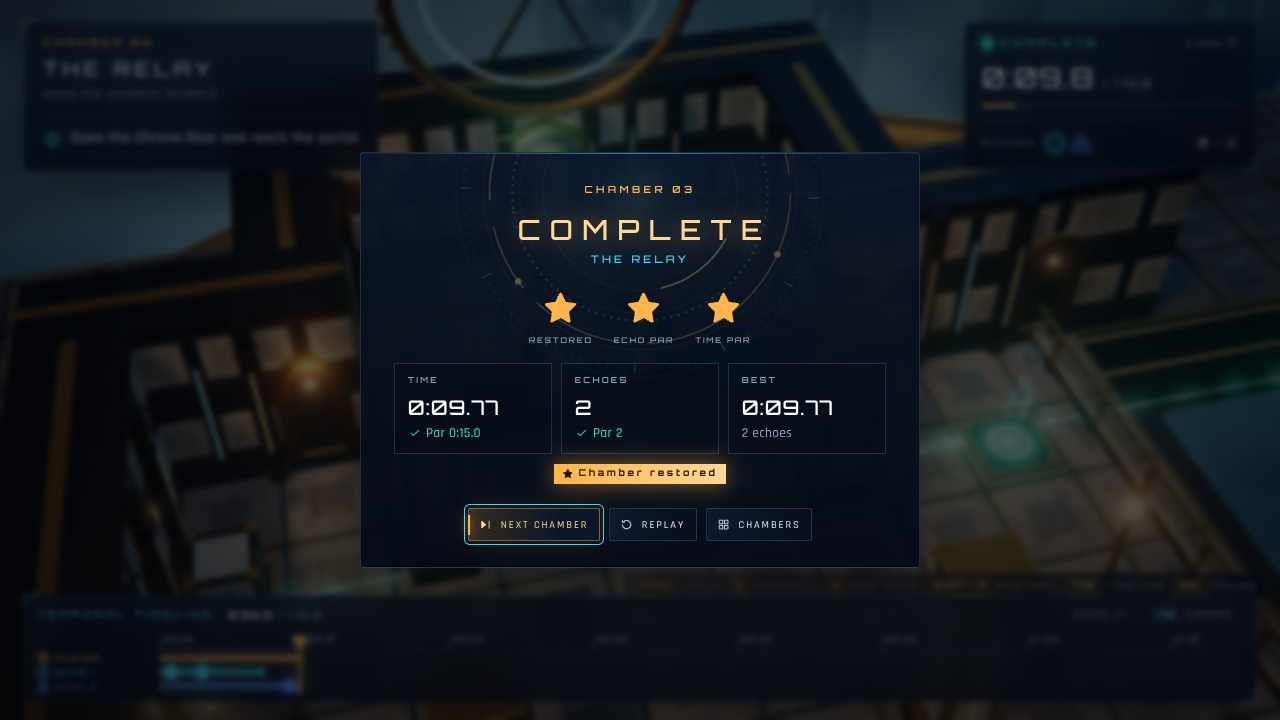
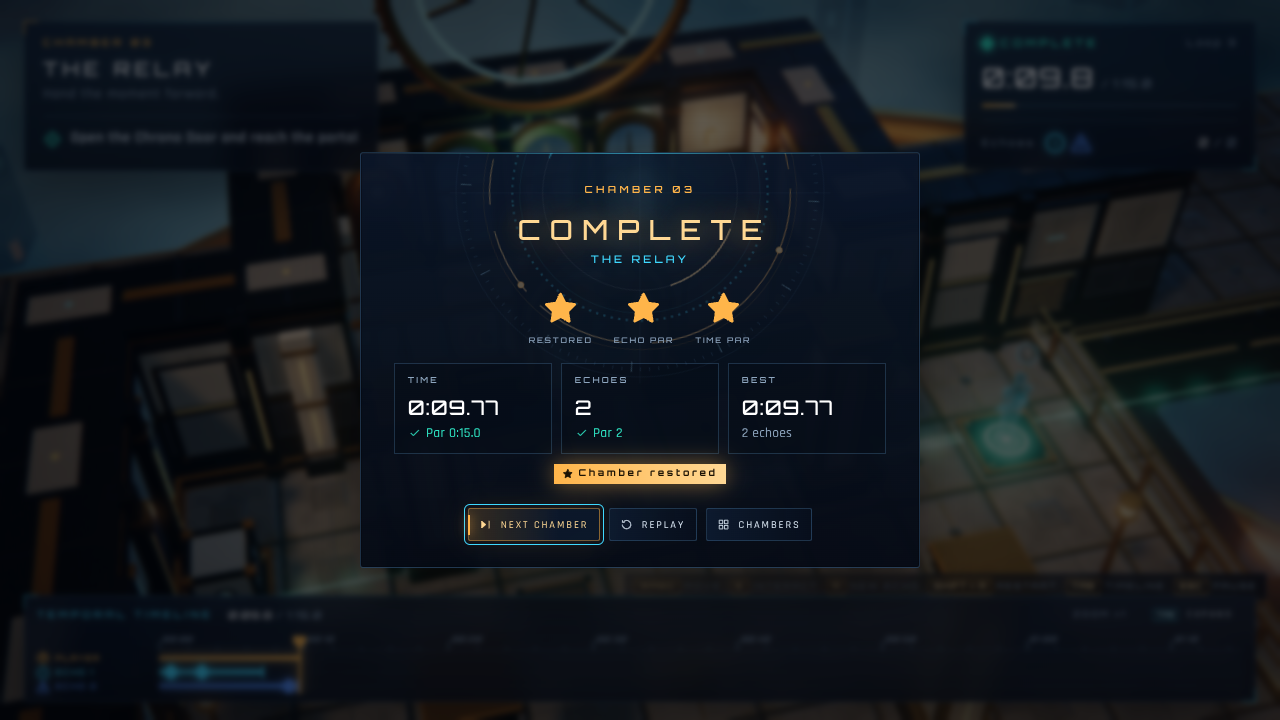
Round 2: fix QA-1/2/3, richer character, environment decor, Q ghost paths, settings wiring
- Physics: clipped deck surfaces, same-tick rider carry, gates/lifts never
  close or move into actors; repros are now normal tests (451 passing)
- Character rebuilt from the concept turnaround (18 draw calls, was 45)
- All authored decor rendered, 9 wall-module variants, monumental backdrop
- Q preview ghost paths, walk-on echo badges, camera sensitivity and
  reduced-motion wired, ?quality lock shown in settings
- Remove unreferenced iteration screenshots (kept in git history)

Claude-Session: https://claude.ai/code/session_01PdtBQq3nY8sMaNJyGq2Psc

diff --git a/src/graphics/effects/ghostPaths.ts b/src/graphics/effects/ghostPaths.ts
@@ -11,7 +11,8 @@ import type { GhostPath } from './forecast';
  * the future (static with reduced motion). Read-only: built from `extractGhostPaths` output.
  */
 
-const RIBBON_WIDTH = 0.22;
+// Wide enough to read from the overview camera the Q preview switches to.
+const RIBBON_WIDTH = 0.36;
 const FLOOR_LIFT = 0.07;
 
 const RibbonShader = {

diff --git a/docs/agent-progress/release-notes.md b/docs/agent-progress/release-notes.md
@@ -1,6 +1,6 @@
-# RECURSION — Release Notes (v0.1, director's release-candidate review)
+# RECURSION — Release Notes (v0.2, round-2 gap-fix review)
 
-Date: 2026-10-10 · Build: `npm run build` → static `dist/` (relative base path) · Reviewer: Game Director
+Date: 2026-10-11 (v0.1: 2026-10-10) · Build: `npm run build` → static `dist/` (relative base path) · Reviewer: Game Director
 
 This is an honest status report against the master plan's **Definition of Done**. "Verified" means checked by a
 test that was run for this release; "unverified" means nobody has been able to measure it yet.
@@ -10,9 +10,11 @@ test that was run for this release; "unverified" means nobody has been able to m
 The full game loop works end to end in the browser: boot → main menu (live attract replay) → level intro →
 record / rewind / cooperate with echoes → timeline inspect and temporal preview → level complete → next chamber,
 with pause, settings, level select, save/continue and procedural audio throughout. All 10 campaign chambers load,
-render and complete with their verified solutions both headlessly and in the real app. The biggest open risks are
-**real-GPU performance and feel (never measured)**, three known physics edge cases, and visual fidelity that is
-cohesive and on-palette but still below the concept sheet's level of detail.
+render and complete with their verified solutions both headlessly and in the real app. Round 2 closed the three
+known physics bugs (QA-1/2/3), added Q-preview ghost paths and walk-on badges, wired camera sensitivity and reduced
+motion into the renderer, rebuilt the protagonist and echo hologram, and rendered the full decor vocabulary with
+varied wall modules. The biggest open risk is still **real-GPU performance and feel (never measured)**; visual
+fidelity is closer to the concept sheet but still procedural (simple face, mitten hands, rigid joints).
 
 ## Definition of Done — status
 
@@ -20,20 +22,54 @@ cohesive and on-palette but still below the concept sheet's level of detail.
 |---|---|---|
 | 10 playable levels with verified solutions | **Done** | `src/levels` tests: every level validates, solves within its echo limit with 3 stars, fails with the final run alone and with any single loop solo. E2E sweep completes all 10 in the browser. Minimum echo counts are argued, not exhaustively proven. |
 | Deterministic echoes | **Done** | Integer simulation, seeded RNG, per-tick hashes; golden replays for all 10 levels + test chamber re-simulate bit-for-bit; seeded fuzzing with invariants after every tick. |
-| All 12 puzzle components | **Done, 3 known bugs** | Plates, doors, timed switches (with cooldown), crates, cells, sockets, elevators, laser emitters/receivers, temporal gates, moving platforms, exit portals. Open: QA-1 (rider can float over a pit next to a moving platform; reproducible in L05), QA-2 (temporal gate can close on an actor), QA-3 (brief clip into a departing lift). Each has an expected-failure repro test. |
+| All 12 puzzle components | **Done** | Plates, doors, timed switches (with cooldown), crates, cells, sockets, elevators, laser emitters/receivers, temporal gates, moving platforms, exit portals. Round 2 fixed QA-1 (deck walk surface is its real 1x1 extent; riders move with it in the same tick), QA-2 (an occupied temporal gate stays open until clear) and QA-3 (a lift never moves into a body; it waits in place). The three repros are now normal passing tests plus 14 edge-variant regressions, and the fuzzer no longer excuses them (20 000-tick, 4-seed run clean). |
 | Nested loops (L08) | **Done** | `recursion: { delayTicks, copies }`; copies are ordinary echoes with their own divergence checks. Timeline now labels copies "Echo 1 ↻2" with an offset, dashed bar. |
 | Timeline inspect / modify | **Done** | Track per echo, ruler, playhead, interaction markers, divergence highlights, scrubbing (3D view shows the scrubbed moment), pause, delete / hide / select loops, zoom, high-contrast palette option. |
-| In-world indicators (which echo activates what, when) | **Partial → mostly done** | New this release: numbered badges with countdown rings above every object an echo will use in the next 4 s (switches, cells, sockets, crates, lifts…), flaring when the action lands. Not covered: walk-on objects (pressure plates) and ghost paths during Q preview. |
-| Cohesive premium visuals | **Partial** | Matches the concept's palette and language (gold player / cyan echoes, brass + gunmetal kit, glowing conduits, clockwork rings, warm/cool lighting, controlled bloom, grade). Still built from procedural primitives: the character is simple next to the concept turnaround, walls are repetitive, decor vocabulary is limited (several authored decor types are not rendered yet). |
-| Polished animation / VFX | **Mostly done** | Procedural run/idle/carry/interact animation, echo manifest, rewind (screen-space + snapshot playback), divergence glitch, door/portal/laser effects, completion flash. Feel at 60 fps is unverified (see performance). |
+| In-world indicators (which echo activates what, when) | **Done** | Numbered countdown badges above every object an echo will use in the next 4 s; walk-on badges (segmented ring) over pressure plates and ride-lifts; dashed ghost paths with second markers while Q is held. Walk-on badges and ghost paths come from a deterministic echo forecast run in a Web Worker; like the Q preview they assume the player stands still. |
+| Cohesive premium visuals | **Mostly done** | Concept palette and language throughout. Round 2: new protagonist (white/ivory armour panels with gold edge glow, pauldrons, backpack time device, hair buns; 18 draw calls per character, ~8.6k triangles) and a panel-preserving cyan echo hologram; 9 wall modules per face, all authored decor types render (archway, 9 machinery variants, hologram, banner, abyss light), deeper backdrop. Still procedural: simple face, mitten hands, rigid joints, no textures on the character. |
+| Polished animation / VFX | **Mostly done** | Procedural run/idle/carry/interact animation (round 2: corrected gait phase, breathing and weight-shift idle, reach/lift/place gestures, landing squash, head look toward the faced cell), echo manifest, rewind (screen-space + snapshot playback), divergence glitch, door/portal/laser effects, completion flash. Feel at 60 fps is unverified (see performance). |
 | Audio | **Done** | Fully procedural SFX for every event class, ambience, adaptive music (menu / explore / solving / completion). No distinct sound yet for nested-loop copies. |
 | Save / load | **Done** | Progress, best runs, settings, key bindings and in-progress echoes (saved on commit/delete, restored by Continue); corrupt/oversized saves load safely. |
-| Browser tests pass | **Done** (see Tests below) | Smoke, flows, all-levels sweep, visual regression, perf probe. |
-| Performance targets (60 fps desktop / 30 fps low-end) | **Unverified** | Only measured under software rendering (SwiftShader, ~0.5 fps), which says nothing about real GPUs. Low preset cuts draw calls ~27%. The simulation itself costs ≤0.13 ms/tick. `npm run test:e2e:perf` must be run on real hardware. |
+| Browser tests pass | **Done** (see Tests below) | Smoke, flows, all-levels sweep, visual regression, perf probe. One flow test and two 3D baselines were updated for intended round-2 changes. |
+| Performance targets (60 fps desktop / 30 fps low-end) | **Unverified** | Only measured under software rendering (SwiftShader, ~0.5 fps), which says nothing about real GPUs. L10 perf probe: 376 draw calls / 0.77 M triangles (high), 253 / 0.60 M (low). Triangles are up ~30% from round 2 art, draw calls about flat. The simulation itself costs ≤0.13 ms/tick. `npm run test:e2e:perf` must be run on real hardware. |
 | Deployable static build | **Done** | `vite build` with `base: './'`; `dist/` works from any static host or sub-folder; three.js in its own cacheable chunk. |
 | 60–120 min of play | **Unverified** | 10 chambers exist; par times total ~3 min of optimal play, so real play time depends on puzzle difficulty, which needs human playtests. |
 
-## What changed in the director's polish pass
+## What changed in round 2 (gap-fix team)
+
+Physics / gameplay (simulation changed deliberately; golden replays for L04, L05, L10 and one fuzz fingerprint
+re-blessed — L04 completes one tick earlier, L05/L10 changed only mid-ride checkpoints)
+- QA-1, QA-2, QA-3 fixed at the root (see the components row). New additive `SurfaceCell.clip` contract field and
+  tick step 4b (riders carried in the same tick as their deck/lift); documented in `docs/architecture/contracts.md`.
+- A lift can now pause mid-shaft (`state.held`) while someone straddles its edge.
+
+Character
+- New stylized protagonist following the concept turnaround (`src/graphics/animation/characterModel.ts`), shared
+  geometry for player and echoes, 45 → 18 draw calls per character. Echo hologram keeps the panel pattern, shows
+  only its nearest surface and stays cyan on bright floors.
+
+Environment
+- All authored decor types render (`src/graphics/environment/decor.ts`); 9 wall modules chosen per face, trims and
+  caps; quadrant-plate floor tiles, framed grates, brass inlays; three tower bands, 70 spires, 9 clockwork rings,
+  light shafts. L10 static kit 71 → 63 draw calls, backdrop 38 → 17.
+
+UX / indicators
+- Echo forecast (Web Worker) feeding Q-preview ghost paths and walk-on badges.
+- `GameRenderer.setComfort()`: camera sensitivity scales wheel zoom and follow speed; reduced motion disables the new
+  small camera shake (rewind, divergence, completion), shortens the intro fly-in (3.4 s → 1.1 s), damps rewind /
+  glitch distortion and halves particle bursts.
+- `?quality=` overrides are shown in Settings and lock the quality selector; an unknown value falls back to the
+  saved preset (it used to force High).
+- The attract replay pauses under menu sub-screens. A crate carried by a hidden echo is hidden with it.
+
+Integration (director)
+- `tests/e2e/flows.spec.ts` settings test boots without `?quality=` (the override now locks the selector) and gains
+  a check of that lock. `tests/e2e/smoke.spec.ts` writes its review screenshots to the git-ignored `test-results/`
+  instead of `docs/`. 3D visual baselines re-blessed after side-by-side review.
+- Q-preview ghost-path ribbon widened (0.22 → 0.36 world units): the preview switches to the overview camera, where
+  the thinner trail was hard to read.
+
+## What changed in the v0.1 director's polish pass
 
 Visual / camera
 - **Closer follow camera** (distance 15–25 instead of 16–36): the characters now read as silhouettes at the
@@ -62,36 +98,53 @@ Gameplay readability / UI
 
 ## Known issues
 
-1. QA-1 / QA-2 / QA-3 physics edge cases (above).
-2. Real-GPU performance and input feel unmeasured; the intro fly-in timing and camera damping were only judged
-   from software-rendered frames.
-3. `cameraSensitivity` and `reducedMotion` settings are saved but the renderer has no camera-shake/sensitivity API
-   yet (reduced motion does shorten rewind playback and UI motion).
-4. Hiding an echo filters it from the rendered state; a crate it carries falls back to its simulated position.
-5. The attract replay keeps simulating under menu sub-screens (small CPU cost).
-6. Several authored decor types (archway, machinery variants, hologram, banner, abyssLight) are ignored by the
-   renderer.
-7. `?quality=` URL overrides are not reflected in the Settings screen (it shows the saved preset).
-8. The e2e suite takes ~20+ minutes under software WebGL.
+1. Real-GPU performance and input feel unmeasured; intro fly-in timing, camera damping and the new camera shake
+   were only judged from software-rendered frames. The first forecast (ghost paths / walk-on badges) appears after a
+   few frames under SwiftShader; on a real GPU it should take ~100 ms (unmeasured).
+2. Walk-on badges and ghost paths are predictions that assume the player stands still; they update as the player acts.
+3. The head looks toward the faced cell, not the nearest interactable (`ActorVisual.setLookTarget` exists but the
+   renderer does not call it yet).
+4. A held lift (`state.held`) and a temporal gate held open by an occupant have no dedicated visual or audio cue
+   (no `gateBlocked` event yet).
+5. Character: simple face, mitten-like hands, rigid joints; ~8.6k triangles each (cost grows with echoes and
+   nested-loop copies). Echoes render opaque with depth, so transparent effects directly behind an echo are hidden.
+6. Some void-cell machinery (e.g. L01 pylons) is seen edge-on from the default camera; adjustable per decor `facing`.
+7. The colour-blind-safe echo palette applies to the UI, not to 3D echo colours, badges or ghost paths.
+8. No distinct sound for nested-loop copies.
+9. The e2e suite takes ~26 minutes under software WebGL.
+10. `docs/art-direction/screenshots/` still holds ~50 MB of superseded iteration screenshots (`v*-*`, `ui-*`,
+    `levels-*`, `integration-*`): deleting them was blocked by this session's permissions and is left to a human.
 
 ## Recommended next milestones
 
 1. **Real-hardware pass (highest priority):** run `npm run test:e2e:perf` and play on a mid-range and a low-end
-   GPU; tune the quality presets to 60/30 fps; tune camera damping, intro length and movement feel.
-2. **Fix QA-1/2/3** in gameplay/physics and flip their expected-failure repros to normal tests.
-3. **Human playtests** of L05–L09 (the conceptual leaps): tune hint timing, par times and difficulty; measure
-   real play time against the 60–120 min target.
-4. **Art fidelity pass:** richer character model and materials, wall-module variation, render the remaining decor
-   vocabulary, ghost paths for the Q preview, plate indicators for walk-on objects.
-5. **Input:** gamepad support behind the existing input resolver; key-remap e2e coverage.
-6. **Bundle:** consider lazy-loading the harness/solution data used only by the attract replay.
+   GPU; tune the quality presets to 60/30 fps (watch triangle counts with many echoes); tune camera damping,
+   shake, intro length, forecast latency and movement feel.
+2. **Human playtests** of L05–L09: tune hint timing, par times and difficulty; measure real play time against the
+   60–120 min target; check that walk-on badges and ghost paths read clearly.
+3. **Character fidelity:** skinned mesh or better joints, hands, face texture; wire `setLookTarget` to the nearest
+   interactable.
+4. **Feedback for blocking states:** held-lift visual, `gateBlocked` event with an audio cue; colour-blind palette
+   for 3D echoes, badges and ghost paths; a sound for nested-loop copies.
+5. **Repo hygiene:** delete the superseded screenshots listed in known issue 10.
+6. **Input:** gamepad support behind the existing input resolver; key-remap e2e coverage.
+7. **Bundle:** consider lazy-loading the harness/solution data used only by the attract replay.
 
-## Tests run for this release
+## Tests run for this release (round 2, 2026-10-11)
 
-- `npm run verify`: typecheck clean · Vitest 25 files, 406 passed + 3 expected-fail (open QA repros) · build OK.
-- Full Playwright suite (`CI=1 E2E_PORT=4312 npx playwright test`, 23 min): all flow, smoke, all-10-levels and
-  UI visual tests passed; the 4 3D visual baselines differed only by this pass's intended visual changes, were
-  reviewed and re-blessed, and the visual suite then passed 6/6.
-- `dist/` served from a sub-folder of a plain static server boots to the main menu with no errors.
+- `npm run verify` (start and end of the director's round-2 pass): typecheck clean · Vitest 30 files,
+  **451 passed, 0 expected-fail** (the QA-1/2/3 repros are ordinary tests now) · build OK.
+- Full Playwright suite (`CI=1 E2E_PORT=4321 npx playwright test`, 25.7 min): **12 passed, 3 failed**, all from
+  intended round-2 changes: the settings-persistence flow (a `?quality=low` URL override now locks the quality
+  selector, so the test could not click "Medium") and the two L03 3D baselines (6% pixels different: new wall
+  modules, archway, hologram, backdrop). All-10-levels sweep, smoke flow, Continue/restart, pause, timeline,
+  level select, perf probe and UI visual tests passed.
+- Fixes: settings test boots without the override and now also asserts the lock; all four 3D baselines re-blessed
+  after side-by-side review (chamber and showcase still passed against the old look within tolerance, so they were
+  re-blessed too). Re-run of `visual.spec.ts` + the settings test: **7/7 passed**.
+- Perf probe (SwiftShader, not meaningful for real GPUs): L10 high 0.41 fps / 376 draw calls, low 0.48 fps / 253.
+- Screenshot driver (`final-*.png`): all 10 chambers completed with their verified solutions in the real app, no
+  page errors.
 
-Exact commands and details: `docs/agent-progress/director-final.md`.
+Exact commands and details: `docs/agent-progress/director-round2.md` (round 2) and
+`docs/agent-progress/director-final.md` (v0.1).

diff --git a/docs/agent-progress/director-round2.md b/docs/agent-progress/director-round2.md
@@ -1,0 +1,105 @@
+# Progress — Game Director: round-2 verification and integration
+
+## Completed
+
+1. **Gate on the incoming tree:** `npm run verify` green: typecheck clean, Vitest 30 files / 451 passed /
+   0 expected-fail, build OK. Checked `src/testing/qa/known-bugs.test.ts`: the QA-1/2/3 cases are plain `it(...)`
+   (no `it.fails`, no `.skip` anywhere), and `knownIssue()` in `fuzz.test.ts` returns `null`.
+2. **Full e2e suite** (`CI=1 E2E_PORT=4321 npx playwright test --output=<scratchpad>`, 25.7 min): 12 passed,
+   3 failed. All three were caused by intended round-2 changes:
+   - `flows.spec.ts` "settings persist across a reload": `bootToMenu` uses `?quality=low`, and the UX change now
+     locks the quality selector while a URL override is active, so the click on "Medium" timed out (the page snapshot
+     showed the group disabled with "Set by the ?quality=low URL option"). **Fix:** this test boots with no query.
+     It also now checks the lock itself: after reloading with `?quality=low`, Low is pressed, Medium is disabled
+     and the saved preset is still `medium`.
+   - `visual.spec.ts` `l03-follow-low` and `l03-overview-low` (6% pixels different). Side by side, the differences
+     are the environment artist's intended changes: varied wall modules with windows and vents, the archway over the
+     door, the floor hologram, the clock, machinery and backdrop through the pit, and quadrant floor tiles. No
+     regressions. Re-blessed. `chamber-follow-high` and `showcase-overview-low` still passed against the old look
+     because they were within the 5% / 0.3 tolerance. Since that look is out of date, I re-blessed them too
+     (`--update-snapshots=all`) after the same review (new character, wall windows, framed grates).
+   - Re-run of `visual.spec.ts` plus the settings test: **7/7 passed**.
+3. **Repo-bloat source:** `tests/e2e/smoke.spec.ts` wrote `integration-*.png` into `docs/art-direction/screenshots/`
+   on every e2e run, so each run produced about 22 MB of churn. It now writes to the git-ignored
+   `test-results/smoke-shots`. (Today's run had already rewritten them, and the WIP checkpoint committed them.)
+4. **Final screenshots** regenerated with the v0.1 director's driver against a fresh production build
+   (`vite preview`, `?quality=medium`). Every existing `final-*.png` name was overwritten, and only two were added:
+   - `final-character.png`: a 2x close-up of the protagonist in L04, `?quality=high`, wheel-zoomed.
+   - `final-L05-preview.png`: Q preview held 40 ticks ahead at tick 100 in L05, showing the overview camera,
+     two ghost paths and echo end badges.
+
+   All 10 chambers completed in the app with no page errors. Compared with the concept sheet, the new screenshots
+   are clearly closer than the v0.1 set. The heroine is white-armoured with gold edges, a glowing backpack and hair
+   buns. Echoes are cyan glass. Walls carry arched windows, vents and pipe modules. The archway, holograms, clocks
+   and the deeper backdrop now render. I found no regressions.
+5. **Integration fix (readability):** the Q preview switches to the overview camera, where the 0.22-wide ghost-path
+   ribbon was barely visible in L05. I widened it to 0.36 (`src/graphics/effects/ghostPaths.ts`, one constant) and
+   checked the result in a recapture. The effects tests pass (13/13).
+6. **Docs:**
+   - `release-notes.md` is now v0.2: status table (components Done, indicators Done, visuals Mostly done), a round-2
+     change list, rewritten known issues and next milestones, and actual test results.
+   - `README.md`: ghost paths and walk-on badges, Q row, camera sensitivity / reduced-motion behaviour, `?quality=`
+     semantics (lock, unknown value ignored, `ultra`), e2e duration ~26 min.
+   - `qa.md`: QA-1/2/3 marked Fixed (round 2).
+   - `art-bible.md`: points at `final-*` as the current screenshots.
+
+## Not done: deleting superseded screenshots (needs a human)
+
+`docs/art-direction/screenshots/` is ~77 MB. Deleting the unreferenced iteration screenshots was **denied by this
+session's permission classifier**, both with `rm` and with `git rm`, even though they are tracked and recoverable
+from history. I did not work around it. Files that no README, art-bible or release-notes text references, safe to
+delete (about 50 MB):
+
+- `v1-chamber-follow.png`, `v1-chamber-overview.png`, `v1-showcase-follow.png`, `v1-showcase-overview.png`,
+  `v3-chamber-follow.png`, `v6-chamber-follow.png`, `v6-chamber-intro.png`, `v6-chamber-overview.png`,
+  `v6-showcase-follow.png`, `v6-showcase-overview.png`, `v7-chamber-follow.png`, `v7-level03-follow.png`,
+  `v7-level03-overview.png`
+- `ui-*.png` (12 files; `ui-pause.png` and `ui-settings.png` in `visual.spec.ts` are snapshot names under
+  `tests/e2e/visual.spec.ts-snapshots/`, not these files)
+- `levels-L04-overview.png`, `levels-L08-overview.png`, `levels-L10-follow.png`, `levels-L10-overview.png`
+- `integration-*.png` (19 files; no longer written by the smoke test)
+
+Only the historical agent reports (`graphics.md`, `ui-ux.md`, `level-designer.md`, `director-integration.md`)
+mention these files. The art bible already describes them as historical. Command for whoever has permission:
+`git rm docs/art-direction/screenshots/{v1-*,v3-*,v6-*,v7-*,ui-*,levels-*,integration-*}.png`.
+I did not convert `final-*.png` to JPEG. Without deleting the PNGs that would only add files.
+
+## Files changed
+
+- `tests/e2e/flows.spec.ts`: settings test boots without `?quality=` and asserts the URL-override lock.
+- `tests/e2e/smoke.spec.ts`: review screenshots go to `test-results/smoke-shots`.
+- `tests/e2e/visual.spec.ts-snapshots/{l03-follow-low,l03-overview-low,chamber-follow-high,showcase-overview-low}-chromium-linux.png`:
+  re-blessed.
+- `src/graphics/effects/ghostPaths.ts`: `RIBBON_WIDTH` 0.22 → 0.36.
+- `docs/art-direction/screenshots/final-*.png`: 19 overwritten, plus `final-character.png` and
+  `final-L05-preview.png`.
+- `README.md`, `docs/agent-progress/release-notes.md`, `docs/agent-progress/qa.md`, `docs/art-direction/art-bible.md`,
+  this file.
+
+No simulation, gameplay, level or golden-replay changes by me; replays not regenerated.
+
+## Tests run (real results)
+
+- `npm run verify` (start): typecheck clean; 30 files, 451 passed; build OK.
+- `CI=1 E2E_PORT=4321 npx playwright test`: 12 passed, 3 failed (above), 25.7 min.
+- `npx playwright test tests/e2e/visual.spec.ts -g "3D scenes" --update-snapshots`: 4 passed (2 written).
+- `npx playwright test tests/e2e/visual.spec.ts tests/e2e/flows.spec.ts -g "settings persist|3D scenes|UI states"`:
+  7 passed.
+- `npx playwright test tests/e2e/visual.spec.ts -g "chamber-follow-high|showcase-overview-low" --update-snapshots=all`:
+  2 passed (re-blessed).
+- `npx vitest run src/graphics/effects`: 3 files, 13 passed (after the ribbon change).
+- `npm run verify` (end): typecheck clean; 30 files, 451 passed; build OK.
+- Perf probe in the e2e run (SwiftShader): L10 high 0.41 fps / 376 draw calls / 767k triangles; low 0.48 fps / 253 /
+  604k.
+- After the ribbon change I did not re-run the full e2e suite. The change touches only the Q-preview layer, which no
+  e2e baseline renders.
+
+## Outstanding issues
+
+- Superseded screenshot deletion (above) needs a human or a permission grant.
+- `final-character.png` is a back view: the player spawns facing away in every chamber. A front three-quarter view
+  needs a scripted turn or a turntable page.
+- Ghost paths in L05 are short at the captured moment, because the echoes mostly wait. L06 shows longer trails.
+- Not wired: `ActorVisual.setLookTarget` (head tracks the faced cell only), a held-lift visual, a `gateBlocked`
+  event and audio cue, and the colour-blind palette for 3D echoes.
+- Real-GPU performance is still unmeasured.

diff --git a/README.md b/README.md
@@ -9,8 +9,9 @@ cell through a door that is only open because a third pressed a switch eight sec
 - One deterministic 60 Hz simulation shared by the player and every echo (integer maths, seeded RNG, state hashes)
 - Paradoxes are real: if an echo's recorded action can no longer happen, it fails visibly and the timeline marks
   the divergence; nothing is faked to keep a recording "working"
-- A signature temporal timeline (track per echo, interaction markers, scrubbing, delete / hide loops) and
-  in-world badges showing which echo will use which object, and when
+- A signature temporal timeline (track per echo, interaction markers, scrubbing, delete / hide loops),
+  in-world badges showing which echo will use or step on which object, and when, and ghost paths of every echo's
+  route while you hold Q
 - Stylized sci-fi visuals in Three.js (PBR materials, procedural textures, bloom, colour grade), fully
   procedural audio, save/load and quality presets
 
@@ -28,13 +29,14 @@ Current status: [`docs/agent-progress/release-notes.md`](docs/agent-progress/rel
 | **R** | End the recording: it becomes an echo and the chamber rewinds (at the echo limit, R discards the take) |
 | **Shift + R** | Restart the chamber (removes all echoes) |
 | **Tab** | Expand the timeline: time freezes, the camera pulls back, scrub with mouse or ←/→ |
-| **Hold Q** | Temporal preview: watch your echoes play out the rest of the loop (the live game is untouched) |
+| **Hold Q** | Temporal preview: watch your echoes play out the rest of the loop, with each echo's future path drawn on the floor (the live game is untouched) |
 | **1 – 5** | Select an echo · **Delete** removes the selected echo |
 | **Esc** | Pause (settings, hints, level select) |
 | Mouse wheel | Camera zoom |
 
-Key bindings, volumes, quality, interface scale and accessibility options (reduced motion, a colour-blind-safe
-echo palette) are in **Settings**. Audio starts on the first click or key press.
+Key bindings, volumes, quality, camera sensitivity, interface scale and accessibility options (reduced motion,
+which also removes camera shake and shortens the intro fly-in; a colour-blind-safe echo palette for the UI) are in
+**Settings**. Audio starts on the first click or key press.
 
 ## Running
 
@@ -45,7 +47,8 @@ npm install
 npm run dev        # http://localhost:5173 — hot-reloading dev server
 ```
 
-URL options: `?quality=low|medium|high` forces a renderer preset (handy on weak GPUs and in tests).
+URL options: `?quality=low|medium|high|ultra` forces a renderer preset for the session (handy on weak GPUs and in
+tests); Settings then shows it and locks the quality selector. An unknown value is ignored.
 `graphics-preview.html` is a standalone renderer test bed (`?scene=level&id=3`, `?scene=showcase`).
 
 ## Building and deploying
@@ -74,7 +77,7 @@ server configuration. There is no backend: progress and settings are stored in t
 | `npm run bench` | Simulation tick-cost benchmark |
 
 Headless Chromium renders WebGL in software (SwiftShader, ~1–2 fps), so the e2e suite drives the deterministic
-simulation through the `window.__RECURSION__` debug hook instead of wall-clock timing and takes ~20 minutes.
+simulation through the `window.__RECURSION__` debug hook instead of wall-clock timing and takes ~26 minutes.
 Run it with `CI=1` (fresh preview server) and, when other servers may be running, a private port:
 `CI=1 E2E_PORT=4311 npm run test:e2e`.
 
